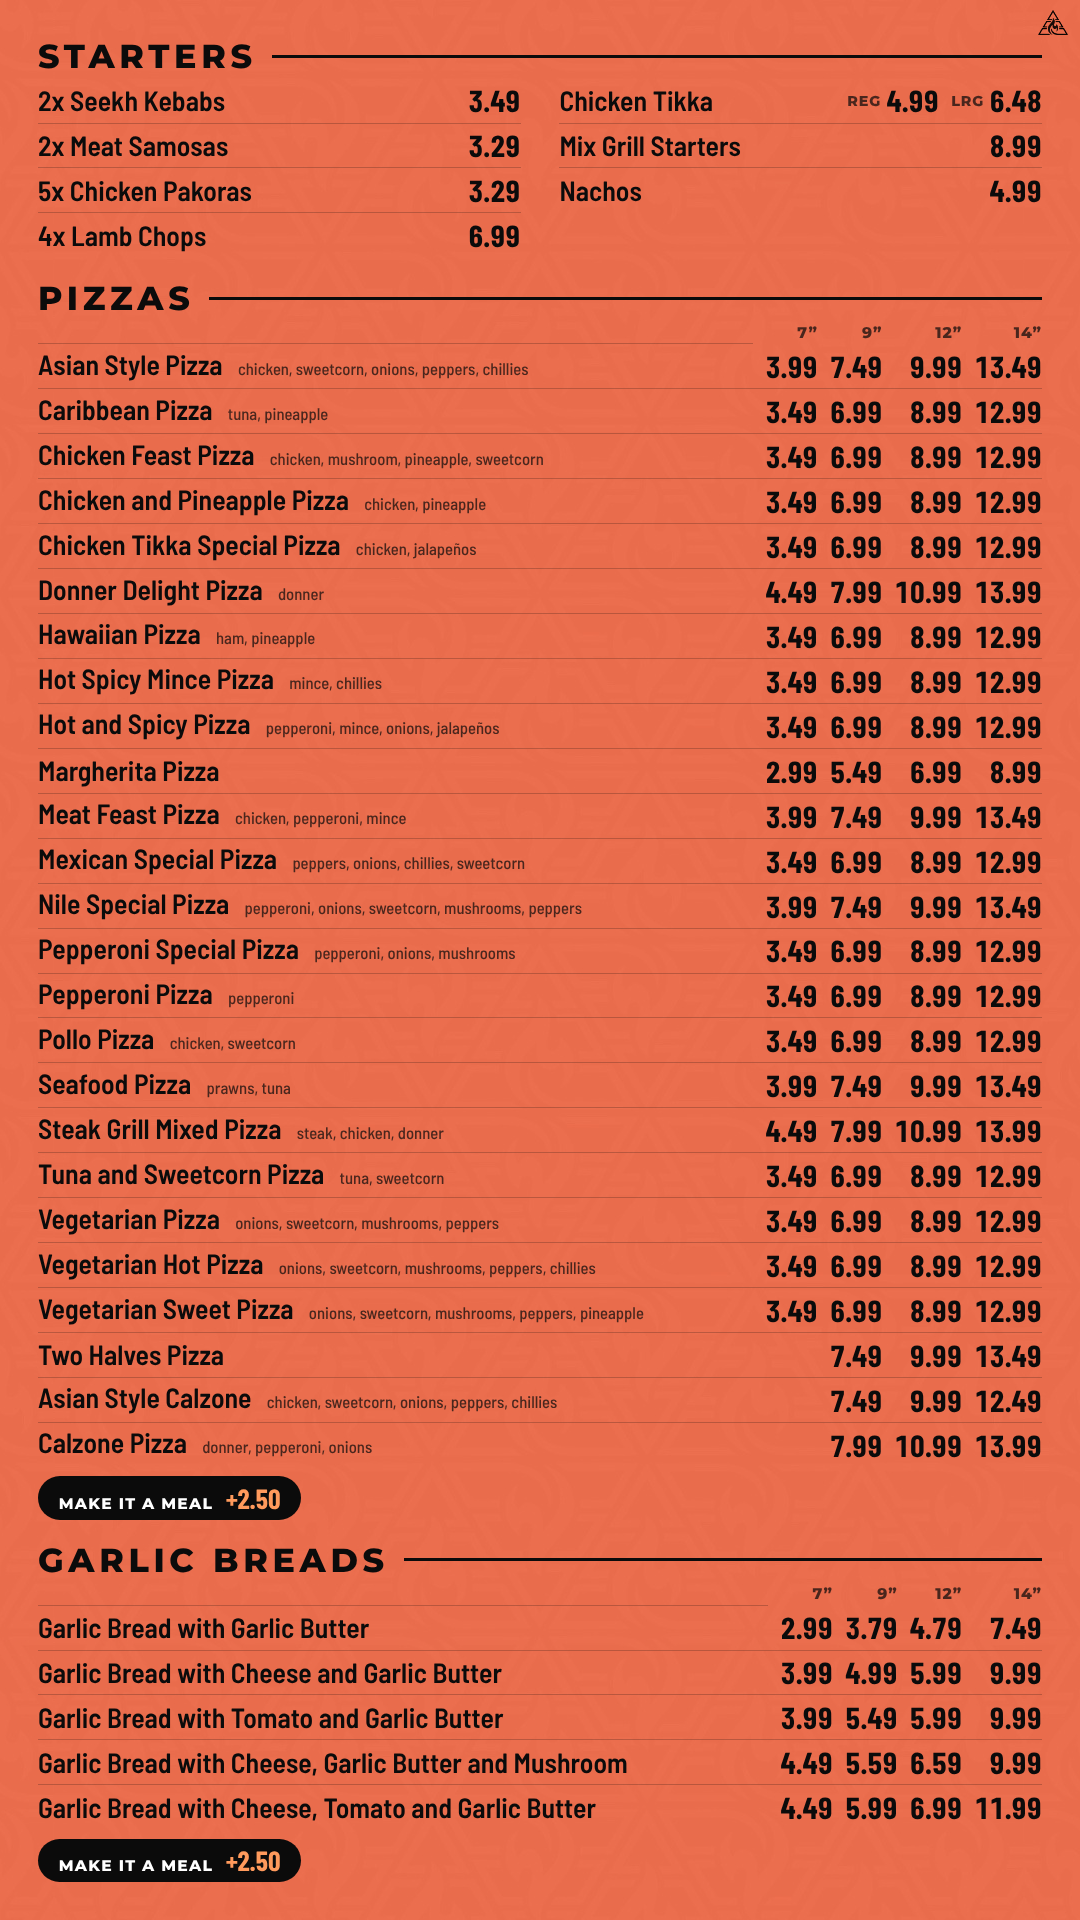
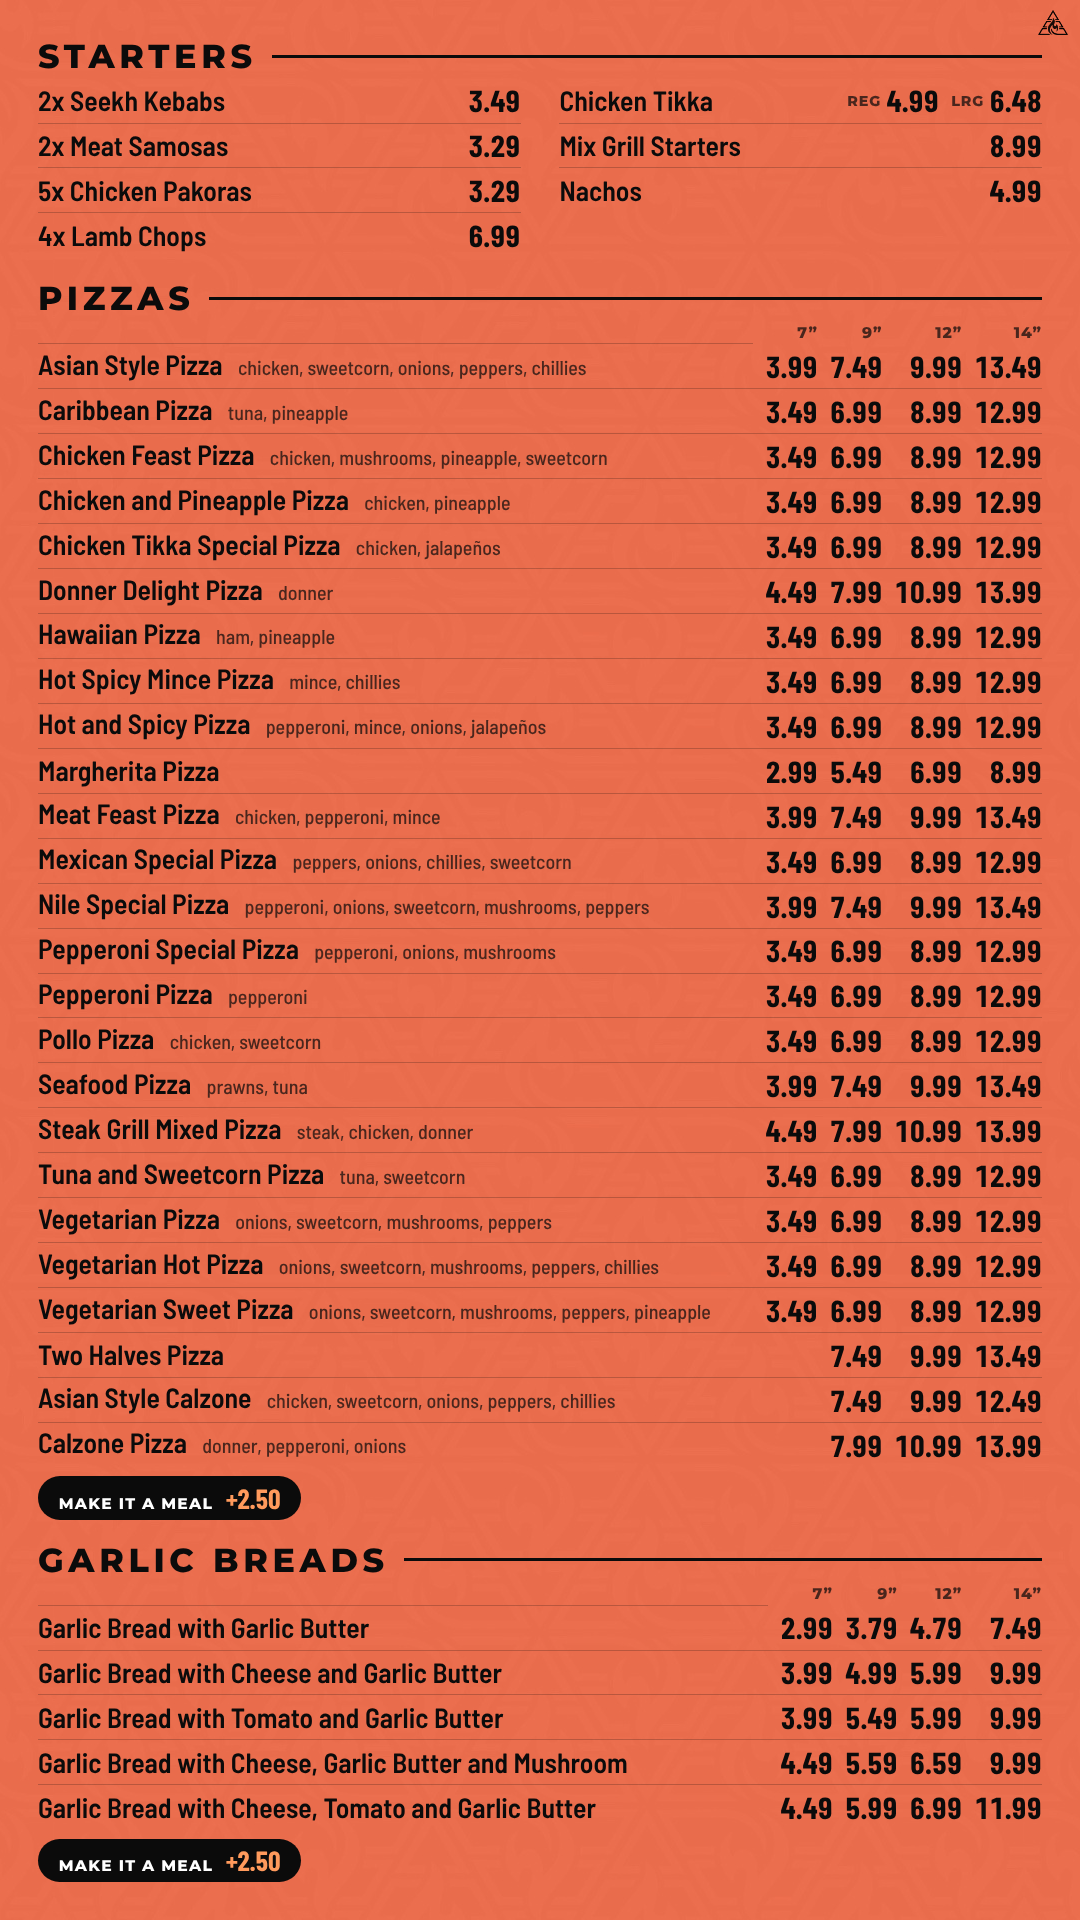
Larger lowercase pizza toppings; Chicken Feast has mushrooms
Claude-Session: https://claude.ai/code/session_013RPUouk4WdEs3vMVAGzuyr

Changed region(s): [[0.1528, 0.2812, 0.6417, 0.6875], [0.2139, 0.1875, 0.55, 0.3125], [0.1833, 0.7188, 0.55, 0.7812]]

diff --git a/menu-board/menu-data.js b/menu-board/menu-data.js
@@ -81,7 +81,7 @@ window.MENU = {
       toppings: {
         "Asian Style Pizza": "chicken, sweetcorn, onions, peppers, chillies",
         "Caribbean Pizza": "tuna, pineapple",
-        "Chicken Feast Pizza": "chicken, mushroom, pineapple, sweetcorn",
+        "Chicken Feast Pizza": "chicken, mushrooms, pineapple, sweetcorn",
         "Chicken and Pineapple Pizza": "chicken, pineapple",
         "Chicken Tikka Special Pizza": "chicken, jalapeños",
         "Donner Delight Pizza": "donner",

diff --git a/menu-board/board.css b/menu-board/board.css
@@ -224,7 +224,8 @@ html, body {
 .desc {
   font-family: "Barlow Semi Condensed", sans-serif;
   font-weight: 500;
-  font-size: 0.6em;
+  font-size: 0.72em;
   color: var(--ink-soft);
   white-space: nowrap;
+  text-transform: lowercase;
 }
